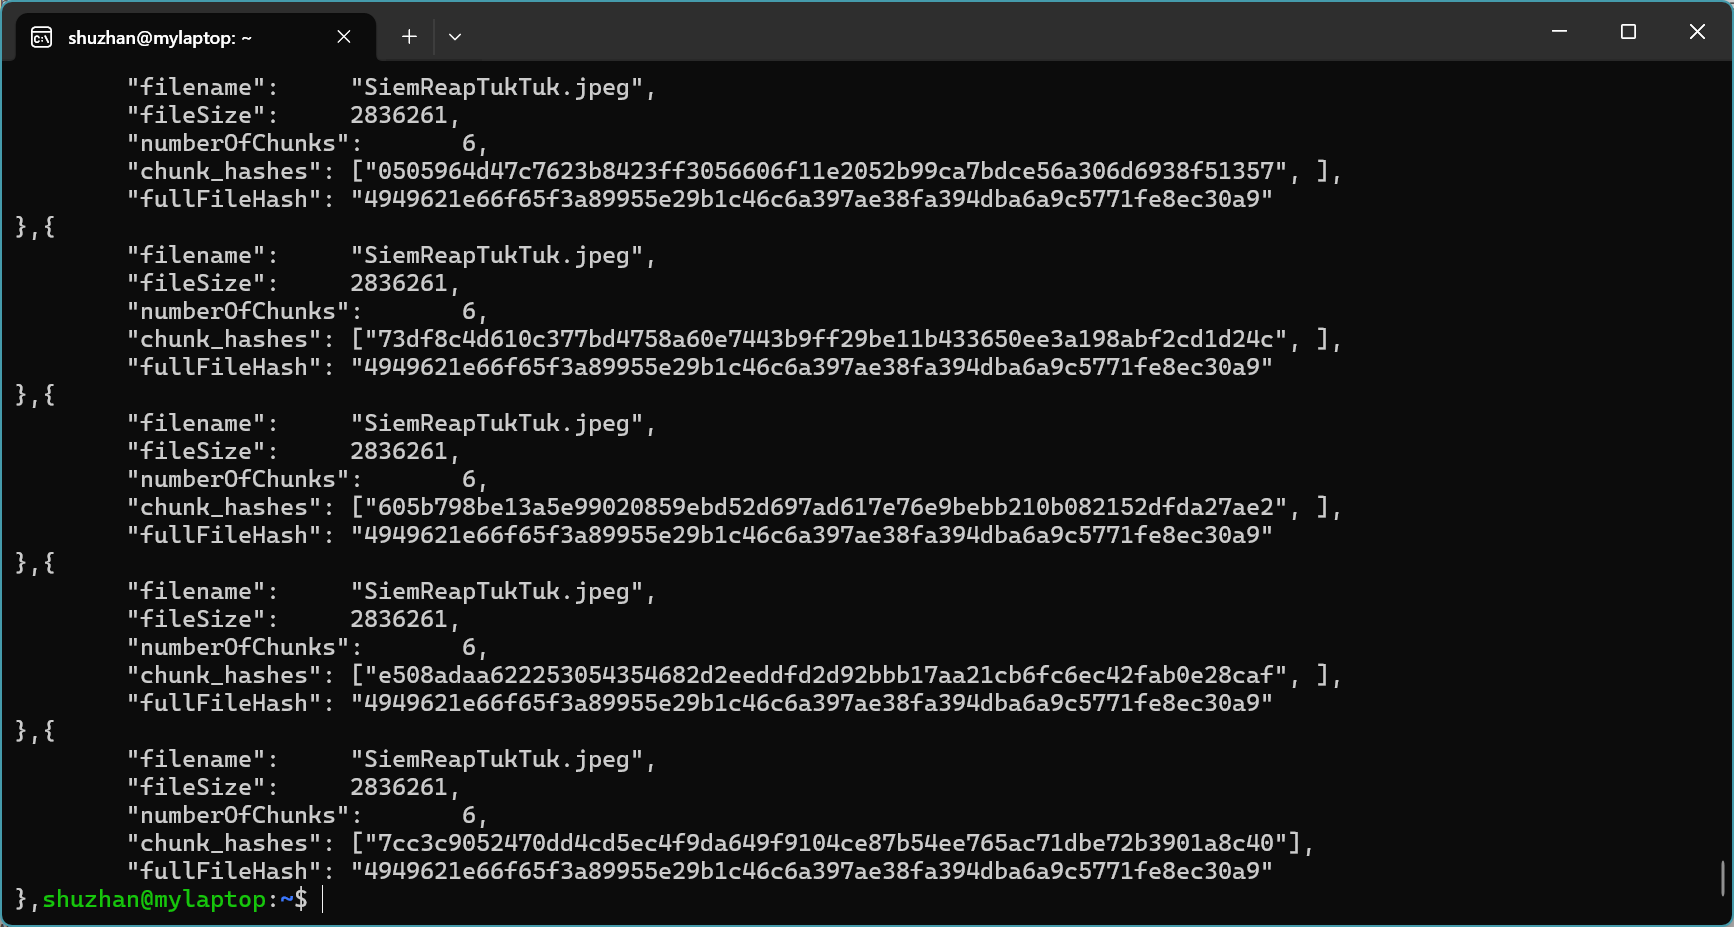
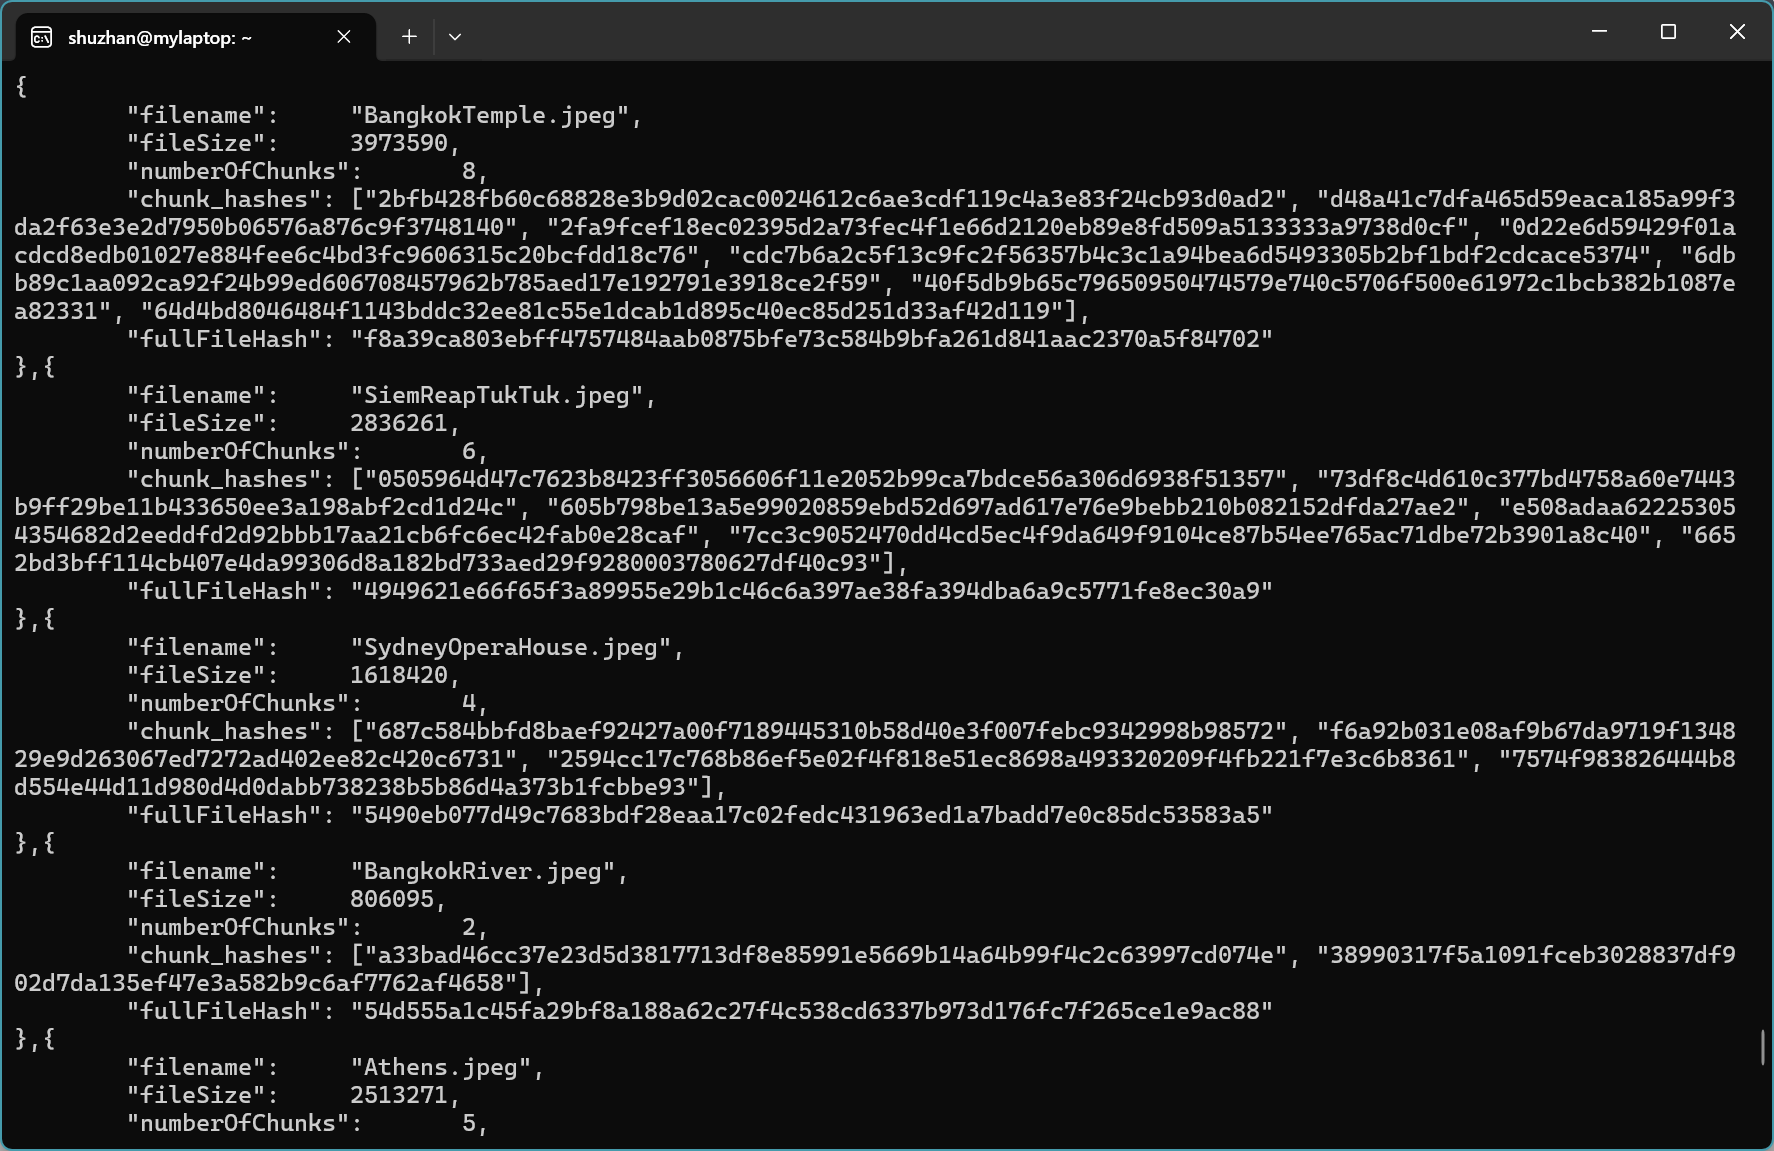
Add files via upload

diff --git a/client3.c b/client3.c
@@ -11,6 +11,7 @@
 #include <sys/stat.h>   
 #include <sys/types.h>  
 #include <errno.h>      
+#include <dirent.h>
 int sendStuff(char *buffer, int sd, struct sockaddr_in server_address);
 void makeSocket(int *sd, char *argv[], struct sockaddr_in *server_address);
 FILE * openFile();
@@ -111,27 +112,10 @@ void jsontostring(json *data, char *buffer) {
 
     strcat(buffer, "}"); // end
 }
+int processfile(char *path_to_file, char *fileName, char *base_dir){  
+    FILE * fptr;
+    fptr = fopen(path_to_file,"rb"); // open the file with the data to send
 
-int main(int argc, char *argv[])
-{
-  int sd; /* the socket descriptor */
-  struct sockaddr_in server_address;  /* structures for addresses */
-  char * lineFromFile = NULL;
-  FILE * fptr;
-  int rc;
-  size_t lengthRead = 0;
-  
-  /* checck to see if the right number of parameters was entered */
-  if (argc < 3){
-    printf ("usage is client <ipaddr> <portnumber>\n");
-    exit(1); /* just leave if wrong number entered */
-  }
-
-  /* call the function to make the socket and fill in server address */
-  makeSocket(&sd, argv, &server_address);
-  fptr = openFile(); // open the file with the data to send
-
-  /* now we will loop until the end of file, sending one line */
 
   
 #define CHUNK_SIZE (500 * 1024) // 512000 bytes
@@ -193,8 +177,8 @@ while ((bytesRead = fread(buffer, 1, CHUNK_SIZE, fptr)) > 0) {
     // print generated JSON string
     // note: ensure jsontostring works with your struct
     char output[1024] = {0};
-    jsontostring(&temp,output);
-    printf("%s\n", output);
+    // jsontostring(&temp,output);
+    // printf("%s\n", output);
     // --- JSON operations end ---
 
     FILE *chunkFile = fopen(chunkPath, "wb"); // use binary write mode
@@ -217,15 +201,10 @@ for (int i = 0; i < SHA256_DIGEST_LENGTH; i++) {
 }
 finalHexHash[64] = '\0';
 
-// ... (code for finalHexHash remains unchanged) ...
 
-  // ==========================================
   // start building final JSON string
-  // ==========================================
-
 
   
-  for (int i = 0; i < chunk_count; i++) {
     printf("{\n");
     printf("\t\"filename\":\t\"%s\",\n", fileName);
   printf("\t\"fileSize\":\t%zu,\n", totalFileSize);
@@ -233,18 +212,59 @@ finalHexHash[64] = '\0';
   
   // loop to print chunk_hashes array on one line
   printf("\t\"chunk_hashes\": [");
-      printf("\"%s\"", hashes[i]);
+  for (int i = 0; i < chunk_count; i++) {
+      printf("\"%s\"", hashes[i+1]);
       if (i < chunk_count - 1) {
           printf(", "); // space after comma
+      }
       }
       printf("],\n");
 
   printf("\t\"fullFileHash\": \"%s\"\n", finalHexHash);
   printf("},");
-  }
+  
   
 
   return 0; 
+}
+int main(int argc, char *argv[])
+{
+    if (argc < 2) {
+        printf("Usage: %s <directory_path> <ipaddr> <portnumber>\n", argv[0]);
+        exit(1);
+    }
+
+    char *targetDir = argv[1];
+    DIR *dirPtr = opendir(targetDir);
+    struct dirent *entry;
+
+    if (dirPtr == NULL) {
+        perror("Unable to open directory");
+        exit(1);
+    }
+
+    // Loop through all files in the directory
+    while ((entry = readdir(dirPtr)) != NULL) {
+        // Exclude directories and hidden files
+        if (strchr(entry->d_name, ':') != NULL) continue;
+        if (entry->d_type == DT_REG) {
+            char fullFilePath[512];
+            snprintf(fullFilePath, sizeof(fullFilePath), "%s/%s", targetDir, entry->d_name);
+            processfile(fullFilePath, entry->d_name, targetDir);
+        }
+    }
+    closedir(dirPtr);
+
+    // If there are enough command-line arguments, continue executing the Socket logic
+    if (argc >= 4) {
+        int sd; 
+        struct sockaddr_in server_address;  
+        char *argv_for_socket[] = {argv[0], argv[2], argv[3]};
+        makeSocket(&sd, argv_for_socket, &server_address);
+        // You can call sendStuff here to send data
+    }
+
+    return 0;
 }
 
 
